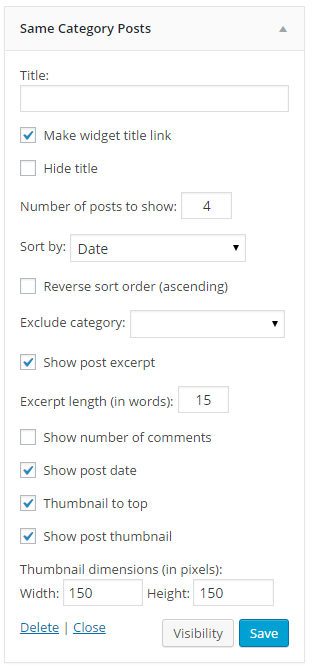
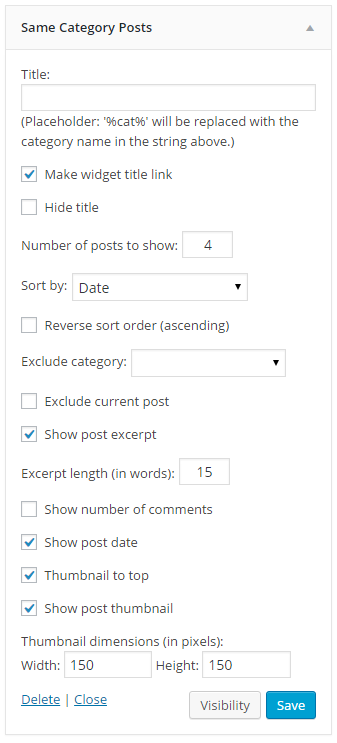
New version 1.0.3

diff --git a/same-category-posts.css b/same-category-posts.css
@@ -1,6 +1,6 @@
 /*
 Default CSS Styles for Same Category Posts plugin
-Version: 1.0.2
+Version: 1.0.3
 */
 .same-category-post-current,
 .post-date,

diff --git a/same-category-posts.php b/same-category-posts.php
@@ -4,7 +4,7 @@ Plugin Name: Same Category Posts
 Plugin URI: https://wordpress.org/plugins/same-category-posts/
 Description: Adds a widget that shows the most recent posts from a single category.
 Author: DFlöter
-Version: 1.0.2
+Version: 1.0.3
 Author URI: https://profiles.wordpress.org/kometschuh/
 */
 
@@ -62,9 +62,9 @@ class SameCategoryPosts extends WP_Widget {
 		
 		$categories = get_the_category();
 		$category = $categories[0]->cat_ID;
+		$category_info = get_category( $category );
 		
-		if( !$instance["title"] ) {
-			$category_info = get_category( $category );
+		if( !$instance["title"] ) {		
 			$instance["title"] = $category_info->name;
 		}
 		
@@ -83,9 +83,18 @@ class SameCategoryPosts extends WP_Widget {
 			$sort_order = 'DESC';
 		}		
 		
+		// Exclude category
+		$exclude_category = (isset( $instance['exclude_category'] ) && $instance['exclude_category'] != -1) ? $instance['exclude_category'] : "";
+		
+		// Exclude current post
+		$current_post_id = get_the_ID();
+		$exclude_current_post = (isset( $instance['exclude_current_post'] ) && $instance['exclude_current_post'] != -1) ? $current_post_id : "";
+
 		$args = array(
-			'cat' => $category . ',' . -$instance['exclude_category'],
-			'showposts' => $instance['num'], // Number of related posts that will be shown.
+			'cat' => $category,
+			'category__not_in' => array( $exclude_category ),
+			'post__not_in' => array( $exclude_current_post ),
+			'showposts' => $instance['num'], // Number of same posts that will be shown
 			'ignore_sticky_posts' => 1,
 			'orderby' => $sort_by,
 			'order' => $sort_order
@@ -100,9 +109,9 @@ class SameCategoryPosts extends WP_Widget {
 			if( !isset ( $instance["hide_title"] ) ) {
 				echo $before_title;
 				if( isset ( $instance["title_link"] ) ) {
-					echo '<a href="' . get_category_link( $category ) . '">' . $instance["title"] . '</a>';
+					echo '<a href="' . get_category_link( $category ) . '">' . str_replace( "%cat%", $category_info->name, $instance["title"]) . '</a>';
 				} else {
-					echo $instance["title"];
+					echo str_replace( "%cat%", $category_info->name, $instance["title"]);
 				}
 				echo $after_title;
 			}
@@ -113,7 +122,7 @@ class SameCategoryPosts extends WP_Widget {
 			{
 				$my_query->the_post();
 				?>
-				<li class="same-category-post-item">
+				<li class="same-category-post-item <?php if ( $post->ID == $current_post_id ) { echo "same_category-post-current"; } ?>" >
 				
 					<?php 
 						if( isset( $instance["thumbTop"] ) ) : 
@@ -196,44 +205,47 @@ class SameCategoryPosts extends WP_Widget {
 	 */
 	function form($instance) {
 		$instance = wp_parse_args( ( array ) $instance, array(
-			'title'            => __( '' ),
-			'hide_title'       => __( '' ),
-			'num'              => __( '' ),
-			'sort_by'          => __( '' ),
-			'asc_sort_order'   => __( '' ),
-			'title_link'	   => __( '' ),
-			'exclude_category' => __( '' ),			
-			'excerpt'          => __( '' ),
-			'excerpt_length'   => __( '' ),
-			'comment_num'      => __( '' ),
-			'date'             => __( '' ),
-			'thumb'            => __( '' ),
-			'thumbTop'         => __( '' ),
-			'thumb_w'          => __( '' ),
-			'thumb_h'          => __( '' )
+			'title'                => __( '' ),
+			'hide_title'           => __( '' ),
+			'num'                  => __( '' ),
+			'sort_by'              => __( '' ),
+			'asc_sort_order'       => __( '' ),
+			'title_link'           => __( '' ),
+			'exclude_category'     => __( '' ),
+			'exclude_current_post' => __( '' ),
+			'excerpt'              => __( '' ),
+			'excerpt_length'       => __( '' ),
+			'comment_num'          => __( '' ),
+			'date'                 => __( '' ),
+			'thumb'                => __( '' ),
+			'thumbTop'             => __( '' ),
+			'thumb_w'              => __( '' ),
+			'thumb_h'              => __( '' )
 		) );
 
-		$title            = $instance['title'];
-		$hide_title       = $instance['hide_title'];
-		$num              = $instance['num'];
-		$sort_by          = $instance['sort_by'];
-		$asc_sort_order   = $instance['asc_sort_order'];
-		$title_link       = $instance['title_link'];
-		$exclude_category = $instance['exclude_category'];
-		$excerpt          = $instance['excerpt'];
-		$excerpt_length   = $instance['excerpt_length'];
-		$comment_num      = $instance['comment_num'];
-		$date             = $instance['date'];
-		$thumb            = $instance['thumb'];
-		$thumbTop         = $instance['thumbTop'];
-		$thumb_w          = $instance['thumb_w'];
-		$thumb_h          = $instance['thumb_h'];		
+		$title                = $instance['title'];
+		$hide_title           = $instance['hide_title'];
+		$num                  = $instance['num'];
+		$sort_by              = $instance['sort_by'];
+		$asc_sort_order       = $instance['asc_sort_order'];
+		$title_link           = $instance['title_link'];
+		$exclude_category     = $instance['exclude_category'];
+		$exclude_current_post = $instance['exclude_current_post'];
+		$excerpt              = $instance['excerpt'];
+		$excerpt_length       = $instance['excerpt_length'];
+		$comment_num          = $instance['comment_num'];
+		$date                 = $instance['date'];
+		$thumb                = $instance['thumb'];
+		$thumbTop             = $instance['thumbTop'];
+		$thumb_w              = $instance['thumb_w'];
+		$thumb_h              = $instance['thumb_h'];		
 		
 			?>
 			<p>
 				<label for="<?php echo $this->get_field_id("title"); ?>">
 					<?php _e( 'Title' ); ?>:
 					<input class="widefat" id="<?php echo $this->get_field_id("title"); ?>" name="<?php echo $this->get_field_name("title"); ?>" type="text" value="<?php echo esc_attr($instance["title"]); ?>" />
+					<span>(Placeholder: '%cat%' will replaced with the category name in the string above.)</span>
 				</label>
 			</p>
 
@@ -286,6 +298,13 @@ class SameCategoryPosts extends WP_Widget {
 					<?php wp_dropdown_categories( array( 'show_option_none' => ' ', 'name' => $this->get_field_name("exclude_category"), 'selected' => $instance["exclude_category"] ) ); ?>
 				</label>
 			</p>
+			
+			<p>
+				<label for="<?php echo $this->get_field_id("exclude_current_post"); ?>">
+					<input type="checkbox" class="checkbox" id="<?php echo $this->get_field_id("exclude_current_post"); ?>" name="<?php echo $this->get_field_name("exclude_current_post"); ?>"<?php checked( (bool) $instance["exclude_current_post"], true ); ?> />
+					<?php _e( 'Exclude current post' ); ?>
+				</label>
+			</p>			
 			
 			<p>
 				<label for="<?php echo $this->get_field_id("excerpt"); ?>">
